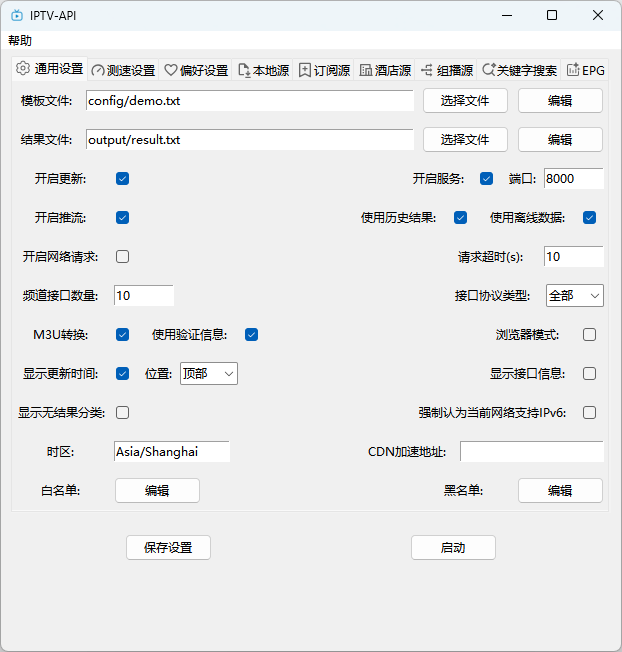
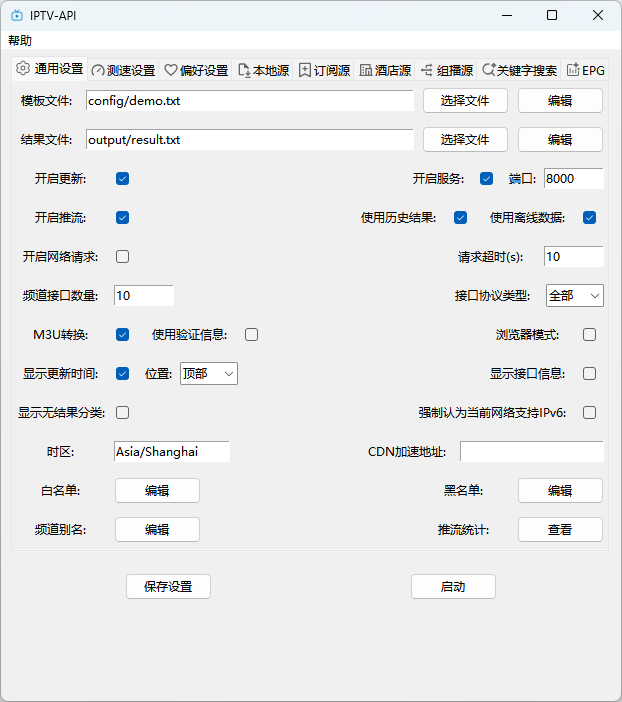
feat: rtmp stat ui

diff --git a/tkinter_ui/default.py b/tkinter_ui/default.py
@@ -1,5 +1,6 @@
 import os
 import tkinter as tk
+import webbrowser
 from tkinter import filedialog, messagebox, ttk
 
 import utils.constants as constants
@@ -424,16 +425,32 @@ class DefaultUI:
 
         frame_channel_alias = tk.Frame(root)
         frame_channel_alias.pack(fill=tk.X)
+        frame_channel_alias_column1 = tk.Frame(frame_channel_alias)
+        frame_channel_alias_column1.pack(side=tk.LEFT, fill=tk.Y)
+        frame_channel_alias_column2 = tk.Frame(frame_channel_alias)
+        frame_channel_alias_column2.pack(side=tk.RIGHT, fill=tk.Y)
+
         self.channel_alias_label = tk.Label(
-            frame_channel_alias, text="频道别名:", width=12
+            frame_channel_alias_column1, text="频道别名:", width=12
         )
         self.channel_alias_label.pack(side=tk.LEFT, padx=4, pady=8)
         self.channel_alias_file_button = tk.ttk.Button(
-            frame_channel_alias,
+            frame_channel_alias_column1,
             text="编辑",
             command=self.edit_channel_alias_file,
         )
         self.channel_alias_file_button.pack(side=tk.LEFT, padx=4, pady=0)
+
+        self.rtmp_stat_label = tk.Label(
+            frame_channel_alias_column2, text="推流统计:", width=12
+        )
+        self.rtmp_stat_label.pack(side=tk.LEFT, padx=4, pady=8)
+        self.rtmp_stat_button = tk.ttk.Button(
+            frame_channel_alias_column2,
+            text="查看",
+            command=self.view_rtmp_stat,
+        )
+        self.rtmp_stat_button.pack(side=tk.LEFT, padx=4, pady=0)
 
     def update_open_update(self):
         config.set("Settings", "open_update", str(self.open_update_var.get()))
@@ -538,6 +555,9 @@ class DefaultUI:
     def edit_channel_alias_file(self):
         self.edit_file(constants.alias_path)
 
+    def view_rtmp_stat(self):
+        webbrowser.open_new_tab("http://localhost:8080/stat")
+
     def change_entry_state(self, state):
         for entry in [
             "open_update_checkbutton",
@@ -569,5 +589,6 @@ class DefaultUI:
             "whitelist_file_button",
             "blacklist_file_button",
             "channel_alias_file_button",
+            "rtmp_stat_button",
         ]:
             getattr(self, entry).config(state=state)

diff --git a/main.py b/main.py
@@ -8,7 +8,6 @@ from time import time
 from tqdm import tqdm
 
 import utils.constants as constants
-from service.app import run_service
 from updates.epg import get_epg
 from updates.fofa import get_channels_by_fofa
 from updates.hotel import get_channels_by_hotel
@@ -199,8 +198,6 @@ class UpdateSource:
                     True,
                     url=f"{get_ip_address()}" if open_service else None,
                 )
-                if open_service:
-                    run_service()
         except asyncio.exceptions.CancelledError:
             print("Update cancelled!")
 

diff --git a/tkinter_ui/tkinter_ui.py b/tkinter_ui/tkinter_ui.py
@@ -23,6 +23,7 @@ from online_search import OnlineSearchUI
 from epg import EpgUI
 from utils.speed import check_ffmpeg_installed_status
 import pystray
+from service.app import run_service
 
 
 class TkinterUI:
@@ -310,4 +311,6 @@ if __name__ == "__main__":
     root.after(0, config.copy)
     root.after(0, config.copy("utils/nginx-rtmp-win32"))
     root.after(0, config.copy("output"))
+    if config.open_service:
+        root.after(0, threading.Thread(target=run_service, daemon=True).start())
     root.mainloop()
